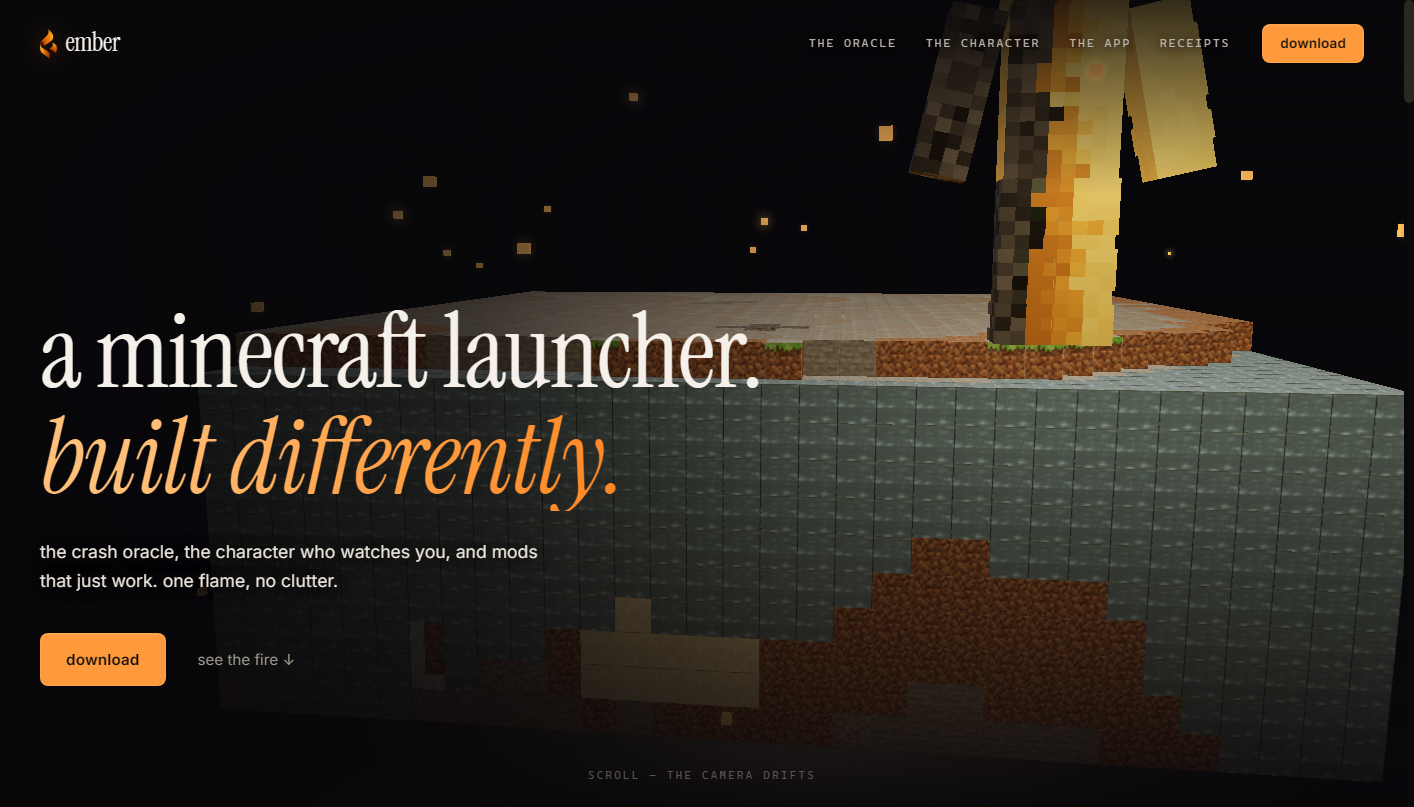
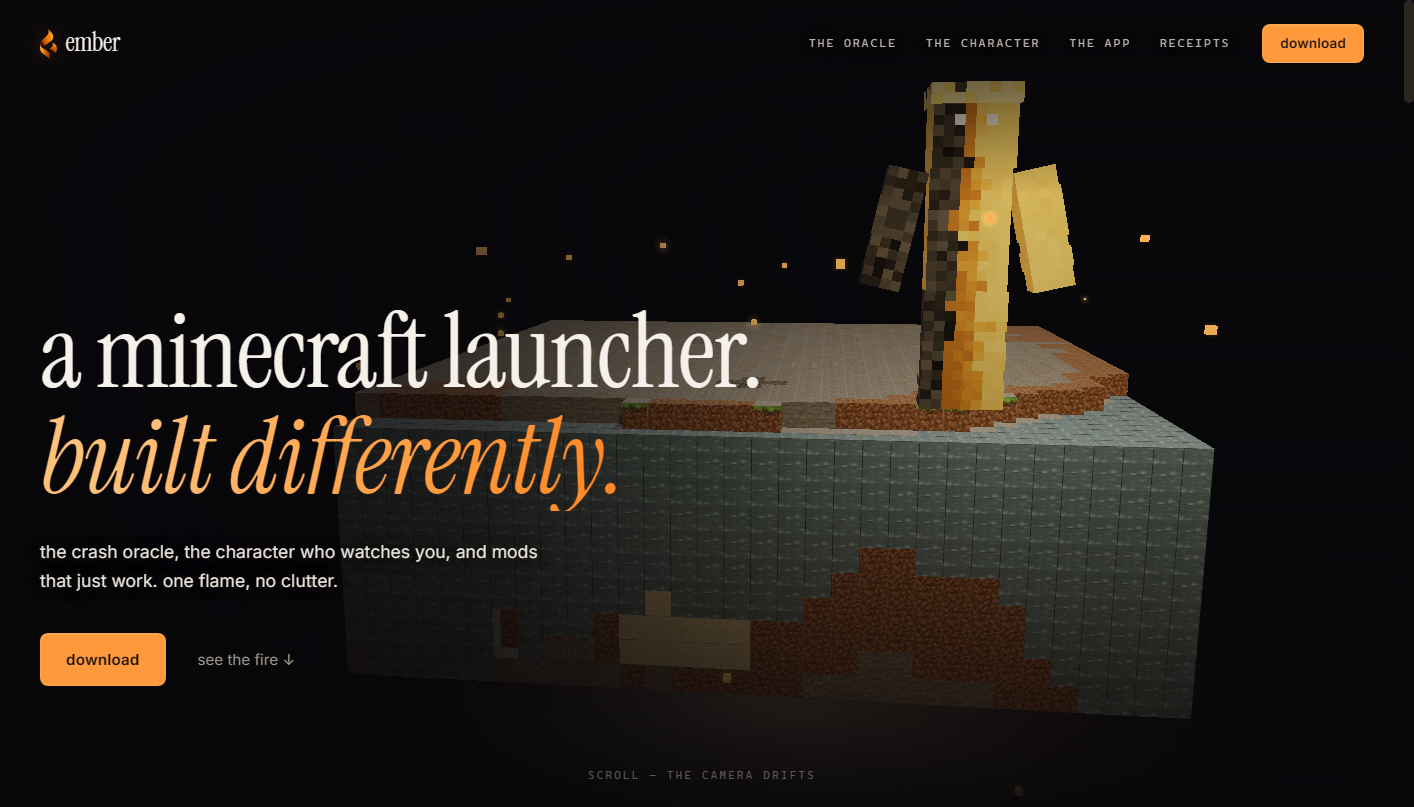
deploy: evidence refresh

diff --git a/scene.js b/scene.js
@@ -56,7 +56,7 @@
     scene.fog = new THREE.FogExp2(0x08070a, 0.016);
 
     camera = new THREE.PerspectiveCamera(42, host.clientWidth / host.clientHeight, 0.1, 140);
-    camera.position.set(0.8, 5.4, mobile ? 28.0 : 26.0);
+    camera.position.set(1.0, 8.0, mobile ? 36.0 : 32.0);
 
     /* ---- light: one warm key, a cool fill, a rim, ambient; the key sways ---- */
     keyLight = new THREE.DirectionalLight(0xffb259, 1.6);
@@ -303,12 +303,12 @@
       var bx, by, bz, lookY = 1.8;
       if (p < 0.5) {
         var a = easeInOut(p / 0.5);
-        bx = 0.8 - 0.3 * a; by = 5.4 - 1.9 * a; bz = (mobile ? 28.0 : 26.0) - (mobile ? 6.0 : 6.2) * a;
-        lookY = 1.6 - 0.3 * a;
+        bx = 1.0 - 0.4 * a; by = 8.0 - 2.8 * a; bz = (mobile ? 36.0 : 32.0) - (mobile ? 7.5 : 8.0) * a;
+        lookY = 2.4 - 0.5 * a;
       } else {
         var b2 = easeOut((p - 0.5) / 0.5);
-        bx = 0.5 + 2.8 * b2; by = 3.5 + 4.2 * b2; bz = (mobile ? 22.0 : 19.8) + 3.4 * b2;
-        lookY = 1.3 - 1.7 * b2;
+        bx = 0.6 + 3.0 * b2; by = 5.2 + 4.6 * b2; bz = (mobile ? 28.5 : 24.0) + 4.2 * b2;
+        lookY = 1.9 - 2.2 * b2;
       }
       if (!reduce) {
         /* slow pan around the chunk + a whisper of vertical breathing */

diff --git a/index.html b/index.html
@@ -162,11 +162,11 @@ verdict: <span class="t-ok">named with certainty</span>
       <p class="lede center narrow">read from the repository at deploy time by <code>sync-evidence.mjs</code>. if the suite isn't green, the dash stays. no lying chips.</p>
       <div class="stats">
         <div class="stat">
-          <span class="stat-num" id="check-count" data-source="repo:3105ac1@2026-09-22">—</span>
+          <span class="stat-num" id="check-count" data-source="repo:3105ac1@2026-09-22">267</span>
           <span class="stat-label">automated checks, green</span>
         </div>
         <div class="stat">
-          <span class="stat-num" id="crash-count" data-source="repo:3105ac1@2026-09-22">—</span>
+          <span class="stat-num" id="crash-count" data-source="repo:3105ac1@2026-09-22">1</span>
           <span class="stat-label">crashes named · zero misattributions</span>
         </div>
         <div class="stat">
